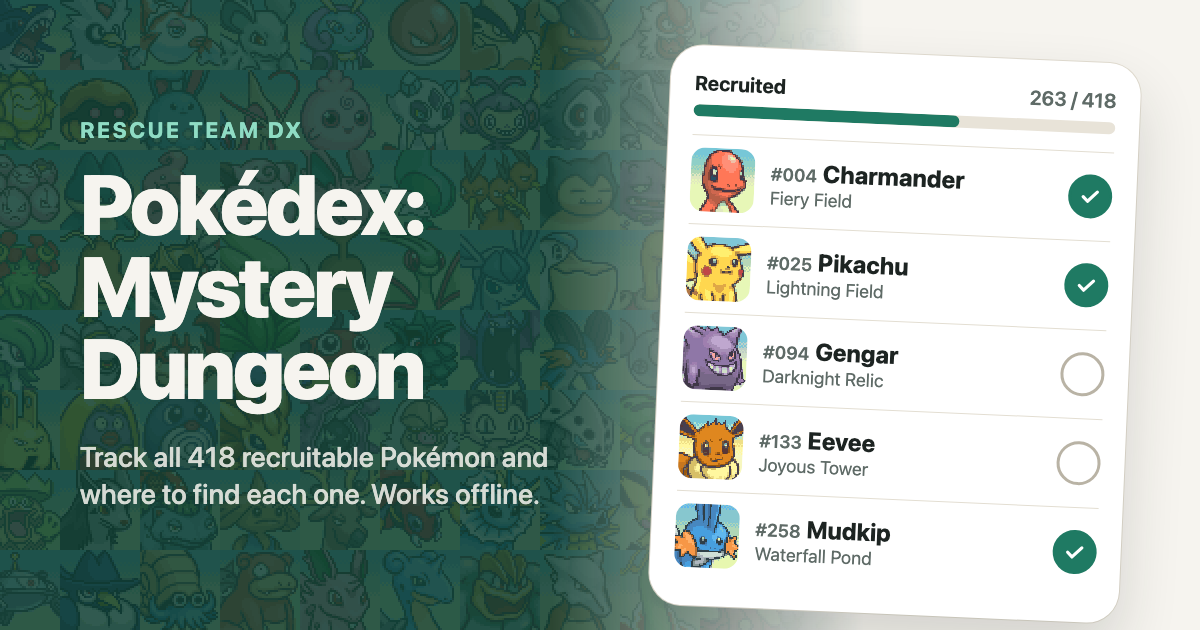
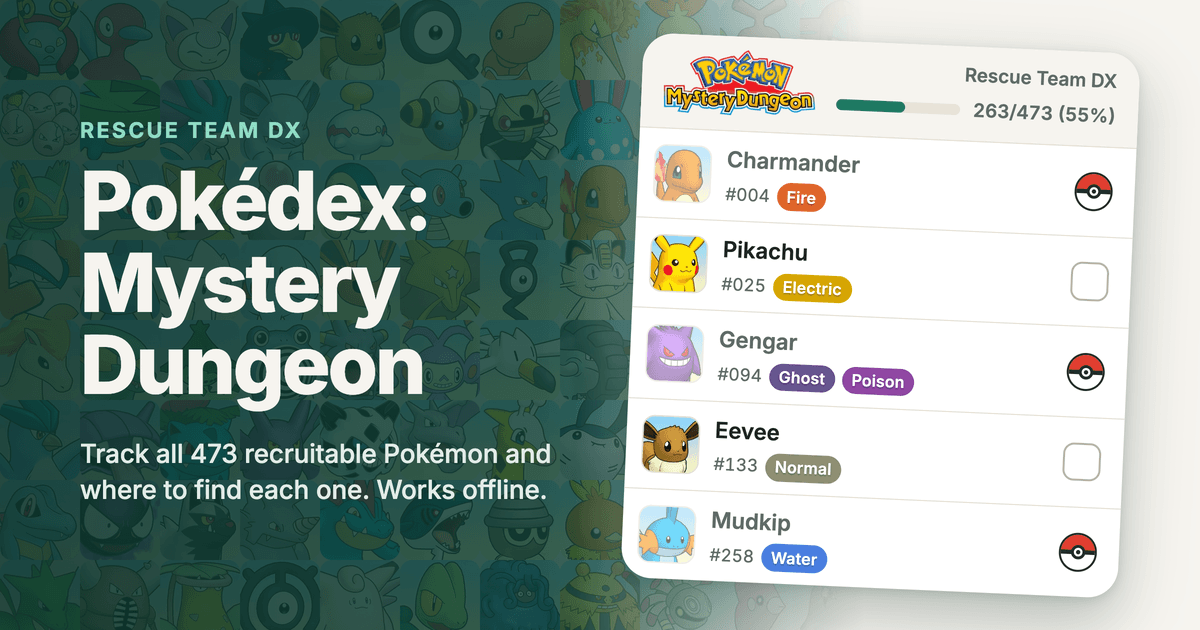
feat: refresh the share image with the current app styles and 473 count
- Share image now shows the checkbox and Poké Ball toggle, type badges, the
  new header and the DX portraits.
- Site description counts all 473 entries.

diff --git a/vite.config.ts b/vite.config.ts
@@ -9,7 +9,7 @@ const base = process.env.BASE_PATH ?? '/';
 // (those need absolute URLs). Override with SITE_URL, e.g. for a custom domain.
 const siteUrl = process.env.SITE_URL ?? 'https://josepdecid.github.io/pokedex-md/';
 const description =
-  'Recruitment checklist for Pokémon Mystery Dungeon: Rescue Team DX. Track all 418 Pokémon and see where to recruit each one, by dungeon and camp. Works offline.';
+  'Recruitment checklist for Pokémon Mystery Dungeon: Rescue Team DX. Track all 473 Pokémon and see where to recruit each one, by dungeon and camp. Works offline.';
 
 export default defineConfig({
   base,
